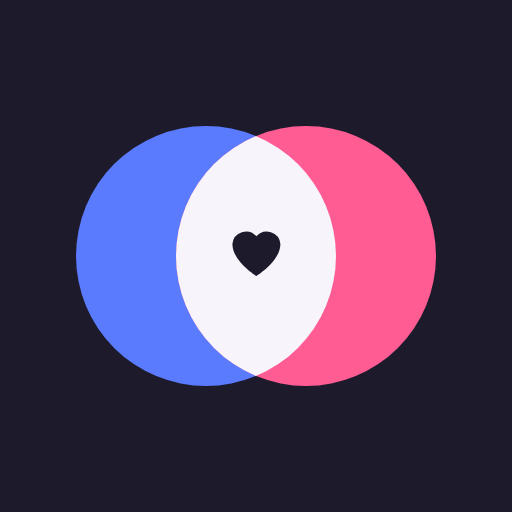
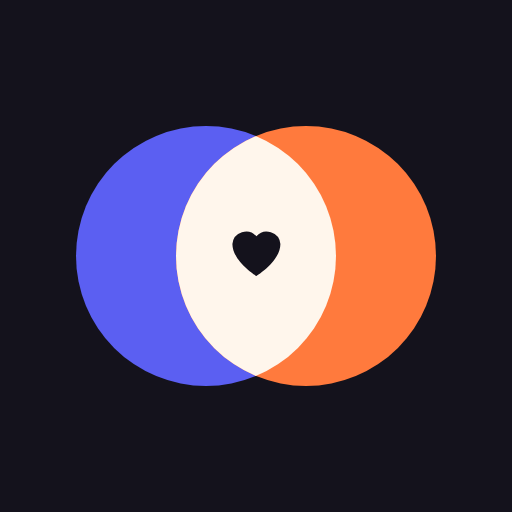
Add files via upload

Changed region(s): [[0.125, 0.2188, 0.875, 0.7812]]

diff --git a/index.html b/index.html
@@ -3,20 +3,20 @@
 <head>
 <meta charset="utf-8">
 <meta name="viewport" content="width=device-width, initial-scale=1, viewport-fit=cover">
-<meta name="theme-color" content="#F7F5FB" media="(prefers-color-scheme: light)">
+<meta name="theme-color" content="#FFF6EC" media="(prefers-color-scheme: light)">
 <meta name="theme-color" content="#14121C" media="(prefers-color-scheme: dark)">
 <meta name="format-detection" content="telephone=no">
 <meta name="mobile-web-app-capable" content="yes">
 <meta name="apple-mobile-web-app-capable" content="yes">
-<meta name="apple-mobile-web-app-title" content="Nous deux">
+<meta name="apple-mobile-web-app-title" content="Couple Brain">
 <meta name="apple-mobile-web-app-status-bar-style" content="default">
 <link rel="manifest" href="manifest.webmanifest">
 <link rel="icon" type="image/svg+xml" href="icon.svg">
 <link rel="apple-touch-icon" href="apple-touch-icon.png">
-<title>Nous deux</title>
+<title>Couple Brain</title>
 <link rel="preconnect" href="https://fonts.googleapis.com">
 <link rel="preconnect" href="https://fonts.gstatic.com" crossorigin>
-<link href="https://fonts.googleapis.com/css2?family=Bricolage+Grotesque:opsz,wght@12..96,500;12..96,700&family=Figtree:wght@400;500;600&family=Caveat:wght@500;700&display=swap" rel="stylesheet">
+<link href="https://fonts.googleapis.com/css2?family=Bricolage+Grotesque:opsz,wght@12..96,400;12..96,500;12..96,600;12..96,700;12..96,800&family=Caveat:wght@500;700&display=swap" rel="stylesheet">
 <style>
 :root{
   --bg:#F7F5FB;--surface:#FFFFFF;--ink:#1D1A2B;--muted:#6B6780;--line:#E6E2EF;
@@ -486,6 +486,42 @@ a.drive,a.driverow{color:inherit;text-decoration:none;-webkit-user-select:none;u
 .hint{color:var(--muted);font-size:13px;margin:6px 0 0}
 #toast{position:fixed;left:50%;bottom:calc(84px + env(safe-area-inset-bottom,0px));transform:translateX(-50%);background:var(--ink);color:var(--bg);padding:10px 16px;border-radius:99px;font-size:14px;font-weight:500;z-index:60;max-width:90%;text-align:center;opacity:0;pointer-events:none;transition:opacity .2s}
 #toast.show{opacity:1}
+
+/* ===== Couple Brain : piste 3 « Duo audacieux » ===== */
+:root{--bg:#FFF6EC;--surface:#FFFDF9;--ink:#14121C;--muted:#6A6477;--line:#EADFD0;--c1:#3B3FD8;--c2:#FF7A3D;--onc1:#FFF6EC;--onc2:#14121C;--on:#FFF6EC;--ok:#1F7A57;--blk:#14121C;--hero:#3B3FD8;
+  --f-d:'Bricolage Grotesque',system-ui,-apple-system,'Segoe UI',sans-serif;--f-b:'Bricolage Grotesque',system-ui,-apple-system,'Segoe UI',sans-serif}
+@media (prefers-color-scheme: dark){:root:not([data-theme="light"]){--bg:#14121C;--surface:#201C2F;--ink:#FFF6EC;--muted:#B3AAC4;--line:#342F49;--c1:#8B8FFF;--c2:#FF8F5C;--onc1:#14121C;--onc2:#14121C;--on:#14121C;--ok:#59C896;--blk:#2B2644;--hero:#3B3FD8}}
+:root[data-theme="dark"]{--bg:#14121C;--surface:#201C2F;--ink:#FFF6EC;--muted:#B3AAC4;--line:#342F49;--c1:#8B8FFF;--c2:#FF8F5C;--onc1:#14121C;--onc2:#14121C;--on:#14121C;--ok:#59C896;--blk:#2B2644;--hero:#3B3FD8}
+body{font-weight:500}
+h1,h2,h3{font-weight:800;letter-spacing:-.03em}
+.top h1{font-size:32px;font-weight:800}
+.av[style*="--c1"]{color:var(--onc1)}.av[style*="--c2"]{color:var(--onc2)}
+.item.done[style*="--c:var(--c2)"] .check::after,.wtile.done[style*="--c:var(--c2)"] .wt-chk::after{border-color:#14121C}
+.hero2{background:var(--hero);border:0;border-radius:32px;color:#FFF6EC}
+.hero2 .hero-title{color:#FFF6EC;font-weight:800;letter-spacing:-.03em}
+.hero2 .hero-when,.hero2 .hero-when.muted{color:#FFD9BF;font-weight:700}
+.hero2 .since{background:#FF7A3D;color:#14121C;border-radius:14px;padding:8px 14px;max-width:134px;transform:rotate(-4deg);font-weight:700}
+.hero2 .since b,.hero2 .since button{color:#14121C}
+.lens circle{stroke:#FFF6EC;stroke-width:5}
+.hero2 .lens circle[stroke-dasharray]{stroke:#FFF6EC!important}
+.quick{gap:8px}
+.quick button{height:84px;border-radius:22px;justify-content:center;gap:2px;background:var(--c1);color:var(--onc1)}
+.quick button:nth-child(even){background:var(--c2);color:var(--onc2)}
+.quick button span,.quick button:active span{width:auto;height:auto;border:0;background:transparent;font-size:26px}
+.tile.photos{background:#fff;padding:10px;border-radius:8px;transform:rotate(-1.2deg);box-shadow:0 8px 0 rgba(20,18,28,.1);overflow:visible}
+.tile.photos::before{content:'';position:absolute;top:-11px;left:50%;width:76px;height:22px;margin-left:-38px;background:rgba(255,122,61,.7);transform:rotate(3deg);z-index:3}
+.photow{border-radius:4px}
+.tile.photos .ph-add{top:20px;right:20px}.tile.photos .ph-badge{left:20px;top:20px}
+.photo-empty{border-radius:28px}
+.tile.wish{background:var(--blk);color:#FFF6EC;border-color:transparent}
+.tile.wish .big,.tile.wish .sm{color:#FFF6EC}
+.tile.wish .pill{color:#FFF6EC;background:rgba(255,246,236,.14)}
+.dice{background:var(--c2);color:#14121C}
+#tabs{left:12px;right:12px;bottom:calc(10px + env(safe-area-inset-bottom,0px));max-width:456px;background:var(--blk);border:0;border-radius:99px;padding:8px 10px;box-shadow:0 8px 24px rgba(20,18,28,.25)}
+#tabs button{height:50px;justify-content:center;border-radius:99px;color:#FFF6EC;padding:0}
+#tabs button.on{background:var(--c2);color:#14121C}
+#toast{bottom:calc(92px + env(safe-area-inset-bottom,0px))}
+#app{padding-bottom:132px}
 </style>
 </head>
 <body>
@@ -629,8 +665,8 @@ function heroArt(){
   return `<svg class="lens" viewBox="0 0 230 150" aria-hidden="true"><defs><clipPath id="lc"><circle cx="82" cy="85" r="64"/></clipPath></defs>
     <circle class="pop" cx="82" cy="85" r="64" style="fill:${ca}"/>${right}
     ${o?`<circle cx="148" cy="85" r="64" clip-path="url(#lc)" style="fill:var(--ink)"/><g transform="translate(106 76) scale(.75)" style="fill:var(--bg)"><path d="M12 20s-7.5-4.6-7.5-10A4.3 4.3 0 0112 7.6 4.3 4.3 0 0119.5 10c0 5.4-7.5 10-7.5 10z"/></g>`:''}
-    <text x="50" y="97" text-anchor="middle" style="font:700 34px var(--f-d);fill:var(--on)">${esc(ini(ME))}</text>
-    <text x="181" y="97" text-anchor="middle" style="font:700 34px var(--f-d);fill:${o?'var(--on)':'var(--muted)'}">${o?esc(ini(o.id)):'?'}</text></svg>`;
+    <text x="50" y="97" text-anchor="middle" style="font:700 34px var(--f-d);fill:var(--on${colorKey(ME)})">${esc(ini(ME))}</text>
+    <text x="181" y="97" text-anchor="middle" style="font:700 34px var(--f-d);fill:${o?`var(--on${colorKey(o.id)})`:'#FFF6EC'}">${o?esc(ini(o.id)):'?'}</text></svg>`;
 }
 function ring(done,total,anim){
   const r=30,c=2*Math.PI*r,p=total?done/total:0;
@@ -1218,7 +1254,7 @@ ACT.photoDel=el=>arm(el,async()=>{const id=el.dataset.id;ACT.photoClose();ui.pho
   document.addEventListener('keydown',e=>{if(e.key==='Escape'&&v.classList.contains('open'))ACT.photoClose()});
 })();
 
-/* ---------- Calendrier iPhone ↔ Nous deux ---------- */
+/* ---------- Calendrier iPhone ↔ Couple Brain ---------- */
 const evOn=ds=>S.events.filter(e=>e.date<=ds&&ds<=(e.endDate||e.date));
 const evColor=e=>e.src==='ios'?'var(--ok)':cv(e.by);
 const evWho=e=>e.src==='ios'?'Calendrier iPhone':nameOf(e.by);
@@ -1319,7 +1355,7 @@ ACT.syncSheet=(el,ev,keyOverride)=>{
   let at=0;try{at=+localStorage.getItem('nd-ing-at:'+CID)||0}catch(e){}
   const n=S.events.filter(e=>e.src==='ios').length;
   openSheet('Recevoir depuis Calendrier',`
-    <p class="muted" style="margin:6px 0 0">Un Raccourci de votre iPhone envoie à Nous deux les rendez-vous du calendrier <b>titanis</b> (60 prochains jours). Aucun mot de passe : seule cette clé secrète permet l’envoi.</p>
+    <p class="muted" style="margin:6px 0 0">Un Raccourci de votre iPhone envoie à Couple Brain les rendez-vous du calendrier <b>titanis</b> (60 prochains jours). Aucun mot de passe : seule cette clé secrète permet l’envoi.</p>
     ${key?`<label>Adresse à coller dans le Raccourci</label><code class="urlbox" id="sync-url">${esc(syncUrl(key))}</code>
       <div class="btnrow" style="margin:10px 0 0"><button class="btn sm" data-act="copySyncUrl">Copier l’adresse</button></div>
       <p class="hint">${at?`Dernière réception sur cet iPhone : ${esc(ago(at))} · ${n} événement${n>1?'s':''} importé${n>1?'s':''}.`:'Rien reçu pour l’instant : lancez le Raccourci pour tester.'}</p>
@@ -1356,10 +1392,10 @@ const icsDt=(d,t)=>d.replace(/-/g,'')+(t?'T'+t.replace(':','')+'00':'');
 function plusMinutes(d,t,m){const dt=new Date(`${d}T${t}:00`);dt.setMinutes(dt.getMinutes()+m);return{d:ymd(dt),t:pad(dt.getHours())+':'+pad(dt.getMinutes())}}
 function buildICS(list){
   const stamp=new Date().toISOString().replace(/[-:]/g,'').replace(/\.\d{3}/,''),seq=Math.floor(Date.now()/1000);
-  const L=['BEGIN:VCALENDAR','VERSION:2.0','PRODID:-//Nous deux//FR','CALSCALE:GREGORIAN','METHOD:PUBLISH'];
+  const L=['BEGIN:VCALENDAR','VERSION:2.0','PRODID:-//Couple Brain//FR','CALSCALE:GREGORIAN','METHOD:PUBLISH'];
   list.forEach(e=>{
     L.push('BEGIN:VEVENT',`UID:nd-${e.id}@nous-deux`,`DTSTAMP:${stamp}`,`SEQUENCE:${seq}`,`SUMMARY:${icsEsc(e.title)}`,
-      `DESCRIPTION:${icsEsc('ND:'+e.id+'\nAjouté depuis Nous deux')}`);
+      `DESCRIPTION:${icsEsc('ND:'+e.id+'\nAjouté depuis Couple Brain')}`);
     if(!e.time)L.push(`DTSTART;VALUE=DATE:${icsDt(e.date)}`,`DTEND;VALUE=DATE:${icsDt(addDays(e.date,1))}`);
     else{const en=plusMinutes(e.date,e.time,60);L.push(`DTSTART:${icsDt(e.date,e.time)}`,`DTEND:${icsDt(en.d,en.t)}`)}
     L.push('END:VEVENT');
@@ -1371,22 +1407,10 @@ let ICS=null;
 function icsSheet(title,text,filename,n){
   if(ICS&&ICS.url)URL.revokeObjectURL(ICS.url);
   const file=new File([text],filename,{type:'text/calendar'}),url=URL.createObjectURL(file);
-  ICS={file,url};
-  const can=!!(navigator.canShare&&navigator.canShare({files:[file]}));
-  let i=0;const num=()=>(++i)+' · ';
-  openSheet(title,`<p class="muted" style="margin:6px 0 0">${n} rendez-vous prêt${n>1?'s':''}. Quand l’iPhone demande dans quel calendrier les ajouter, choisissez <b>titanis</b>.</p>
-    <div class="sheet-actions col">
-      ${can?`<button class="btn primary" data-act="icsShare">${num()}Partager vers Calendrier</button>`:''}
-      <a class="btn ${can?'':'primary'}" href="${url}" target="_blank" rel="noopener">${num()}Ouvrir le fichier</a>
-      <a class="btn" href="${url}" download="${esc(filename)}">${num()}Télécharger</a>
-    </div>
-    <p class="hint">Essayez dans l’ordre : si une méthode n’ouvre pas Calendrier, passez à la suivante.</p>`);
+  ICS={url};
+  openSheet(title,`<p class="muted" style="margin:6px 0 0">${n} rendez-vous prêt${n>1?'s':''}. Touchez le bouton, puis ouvrez le fichier téléchargé : l’iPhone propose de l’ajouter à Calendrier. Choisissez <b>titanis</b>.</p>
+    <div class="sheet-actions col"><a class="btn primary" href="${url}" download="${esc(filename)}">Télécharger</a></div>`);
 }
-ACT.icsShare=async()=>{
-  if(!ICS)return;
-  try{await navigator.share({files:[ICS.file],title:'Nous deux'})}
-  catch(e){if(!e||e.name!=='AbortError')toast('Le partage n’a pas fonctionné : essayez l’option suivante.')}
-};
 ACT.icsOne=el=>{
   const e=S.events.find(x=>x.id===el.dataset.id);if(!e)return;
   const slug=(e.title||'rdv').normalize('NFD').replace(/[\u0300-\u036f]/g,'').replace(/[^a-zA-Z0-9]+/g,'-').replace(/^-|-$/g,'').slice(0,30)||'rdv';
@@ -1405,11 +1429,11 @@ function logoSvg(){
 function Gate(){
   const hint=iosHint();
   const err=hint+(ui.gateErr?`<div class="banner" role="alert">${esc(ui.gateErr)}</div>`:'');
-  if(gate==='loading')return `<div class="gate">${logoSvg()}<h1>Nous deux</h1><p class="gate-sub">Chargement…</p></div>`;
+  if(gate==='loading')return `<div class="gate">${logoSvg()}<h1>Couple Brain</h1><p class="gate-sub">Chargement…</p></div>`;
   if(gate==='error')return `<div class="gate">${logoSvg()}<h1>Oups</h1>${err}<button class="btn primary block" style="margin-top:18px" data-act="retry">Réessayer</button><button class="gate-link" data-act="signOut">Se déconnecter</button></div>`;
   if(gate==='auth'){
     const su=ui.authMode==='signup';
-    return `<div class="gate">${logoSvg()}<h1>Nous deux</h1><p class="gate-sub">${su?'Créez votre compte pour commencer.':'Connectez-vous pour retrouver votre espace à deux.'}</p>${err}
+    return `<div class="gate">${logoSvg()}<h1>Couple Brain</h1><p class="gate-sub">${su?'Créez votre compte pour commencer.':'Connectez-vous pour retrouver votre espace à deux.'}</p>${err}
     <label for="au-email">E-mail</label><input id="au-email" data-keep="au-email" type="email" inputmode="email" autocomplete="email" autocapitalize="off" value="${esc(ui.email)}">
     <label for="au-pass">Mot de passe</label><input id="au-pass" data-keep="au-pass" data-enter="authGo" type="password" autocomplete="${su?'new-password':'current-password'}">
     <button class="btn primary block" style="margin-top:22px" data-act="authGo">${su?'Créer mon compte':'Se connecter'}</button>
@@ -1476,7 +1500,7 @@ ACT.copyCode=async()=>{
   try{await navigator.clipboard.writeText(CID);toast('Code copié.')}catch(e){toast('Sélectionnez le code pour le copier.')}
 };
 ACT.shareCode=async()=>{
-  const text=`Rejoins-moi sur Nous deux ! Code d’invitation : ${fmtCode(CID)} — ${location.origin}${location.pathname}`;
+  const text=`Rejoins-moi sur Couple Brain ! Code d’invitation : ${fmtCode(CID)} — ${location.origin}${location.pathname}`;
   if(navigator.share){try{await navigator.share({text})}catch(e){}}
   else{try{await navigator.clipboard.writeText(text);toast('Message copié.')}catch(e){toast('Partage indisponible.')}}
 };

diff --git a/sw.js b/sw.js
@@ -1,6 +1,6 @@
 // Service worker : l'application s'ouvre même sans réseau (les données, elles, sont gardées par le cache Firestore).
 // Si vous modifiez les fichiers de l'app, changez le numéro de version ci-dessous.
-const V = 'nous-deux-v6';
+const V = 'couple-brain-v8';
 const SHELL = ['./', './index.html', './manifest.webmanifest', './icon.svg', './icon-192.png', './icon-512.png'];
 
 self.addEventListener('install', e => {
